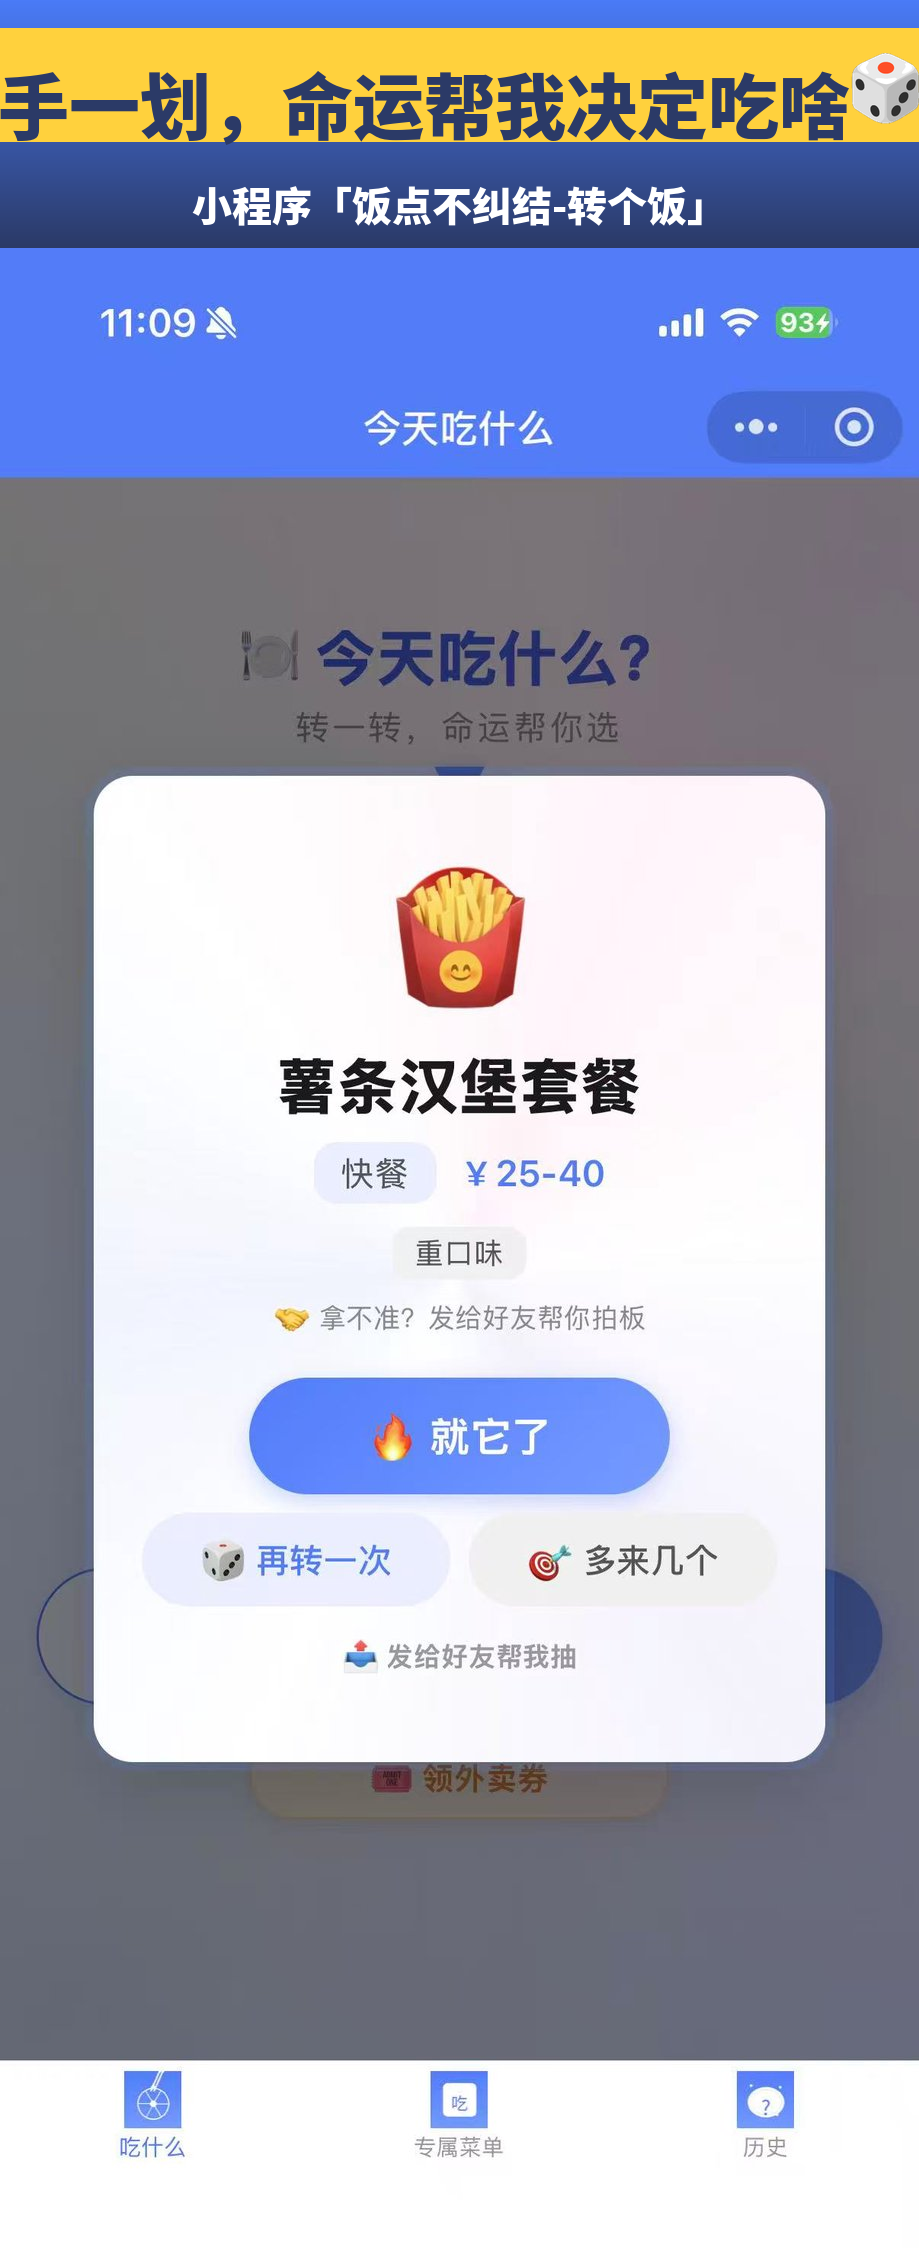
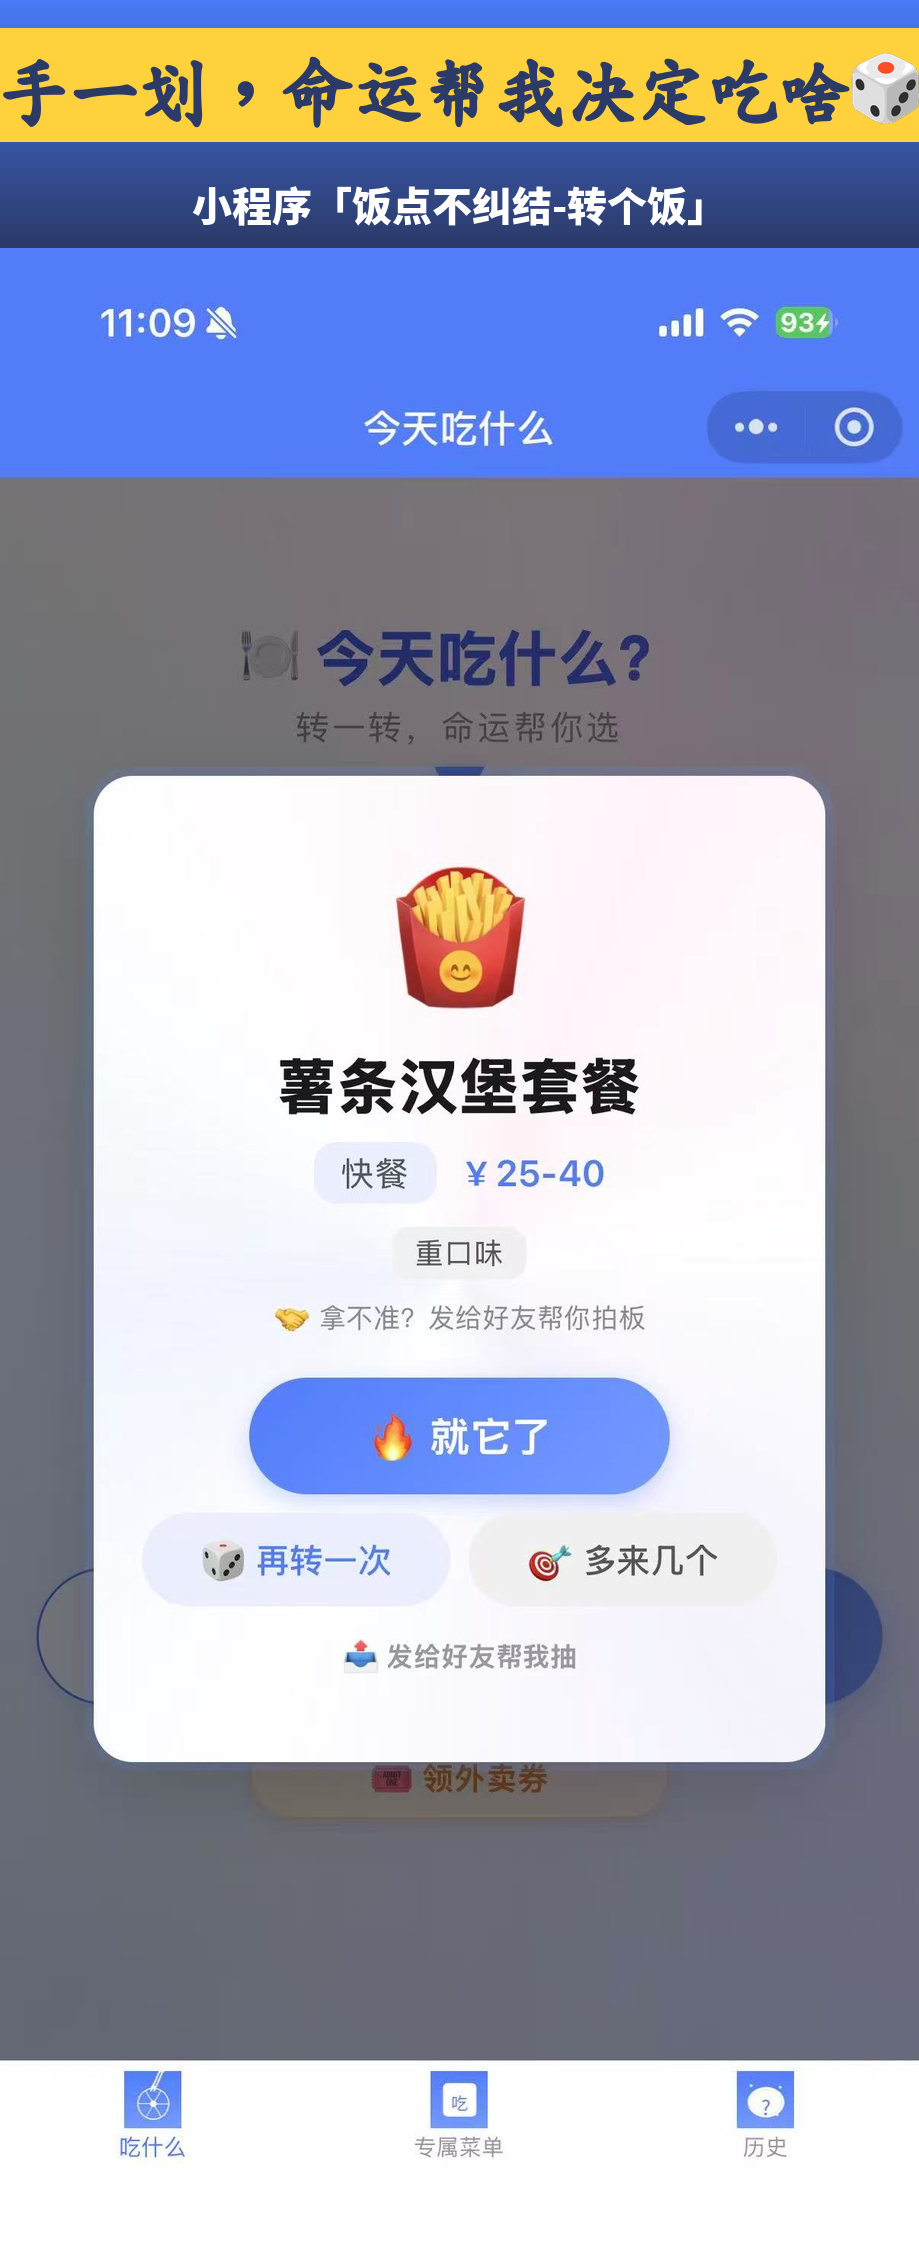
style: 推广配图标题改用楷体(手写可爱感)+描边补粗，小程序名保留黑体保辨识

Changed region(s): [[0.3047, 0.0311, 0.914, 0.0623], [0.0, 0.0311, 0.2742, 0.0623]]

diff --git a/images/gen_promo.py b/images/gen_promo.py
@@ -13,8 +13,10 @@ os.makedirs(OUT, exist_ok=True)
 
 CJK = '/usr/share/fonts/opentype/noto/NotoSansCJK-Black.ttc'
 CJK_R = '/usr/share/fonts/opentype/noto/NotoSansCJK-Medium.ttc'
+UKAI = '/usr/share/fonts/truetype/arphic/ukai.ttc'   # 楷体（手写可爱感）
 EMOJI = '/usr/share/fonts/truetype/noto/NotoColorEmoji.ttf'
 SC_INDEX = 2
+UKAI_INDEX = 0
 
 BLUE = (74, 123, 247)
 BLUE_L = (120, 165, 255)
@@ -43,7 +45,9 @@ ITEMS = [
 ]
 
 
-def font(size, bold=True):
+def font(size, bold=True, cute=False):
+    if cute:
+        return ImageFont.truetype(UKAI, size, index=UKAI_INDEX)
     return ImageFont.truetype(CJK if bold else CJK_R, size, index=SC_INDEX)
 
 
@@ -87,19 +91,19 @@ def tokens(s):
     return res
 
 
-def measure(d, s, size, bold=True):
-    fnt = font(size, bold)
+def measure(d, s, size, bold=True, cute=False):
+    fnt = font(size, bold, cute)
     total = 0
     for typ, val in tokens(s):
         total += d.textlength(val, font=fnt) if typ == 't' else size
     return total
 
 
-def draw_center(img, cx, y, s, size, fill, bold=True, stroke=0, stroke_fill=NAVY):
+def draw_center(img, cx, y, s, size, fill, bold=True, stroke=0, stroke_fill=NAVY, cute=False):
     """图文混排居中：中文用字体，emoji 用彩色图片贴。"""
     d = ImageDraw.Draw(img)
-    fnt = font(size, bold)
-    total = measure(d, s, size, bold)
+    fnt = font(size, bold, cute)
+    total = measure(d, s, size, bold, cute)
     x = cx - total / 2
     for typ, val in tokens(s):
         if typ == 't':
@@ -127,15 +131,16 @@ def vgradient(w, h, top, bot):
     return base
 
 
-def block_center(canvas, cx, y, s, size, text_fill, block_fill, bold=True):
+def block_center(canvas, cx, y, s, size, text_fill, block_fill, bold=True, cute=False, stroke=0):
     """先画圆角高亮块，再在块上居中画图文，最大化可读性。"""
     d = ImageDraw.Draw(canvas)
-    tw = measure(d, s, size, bold)
+    tw = measure(d, s, size, bold, cute)
     padx = size * 0.45
     pady = size * 0.30
     box = [cx - tw / 2 - padx, y - pady, cx + tw / 2 + padx, y + size + pady]
     d.rounded_rectangle(box, radius=int(size * 0.42), fill=block_fill)
-    draw_center(canvas, cx, y, s, size, text_fill, bold)
+    draw_center(canvas, cx, y, s, size, text_fill, bold, stroke=stroke,
+                stroke_fill=text_fill, cute=cute)
     return box
 
 
@@ -157,9 +162,9 @@ def process(item):
         ss = int(W * 0.055)
         ns = int(W * 0.05)
         y0 = band * 0.11
-        block_center(canvas, W / 2, y0, title, ts, NAVY, YELLOW)
+        block_center(canvas, W / 2, y0, title, ts, NAVY, YELLOW, cute=True, stroke=2)
         draw_center(canvas, W / 2, y0 + ts * 1.7, sub, ss, WHITE,
-                    stroke=5, stroke_fill=NAVY)
+                    stroke=5, stroke_fill=NAVY, cute=True)
         # 小程序名徽标（奶油底圆角）
         d = ImageDraw.Draw(canvas)
         name_txt = '👉 微信搜「' + APP_NAME + '」'
@@ -174,7 +179,7 @@ def process(item):
         ts = int(W * 0.078)
         ns = int(W * 0.044)
         y0 = band * 0.20
-        block_center(canvas, W / 2, y0, title, ts, NAVY, YELLOW)
+        block_center(canvas, W / 2, y0, title, ts, NAVY, YELLOW, cute=True, stroke=2)
         draw_center(canvas, W / 2, y0 + ts * 1.75,
                     '小程序「' + APP_NAME + '」', ns, WHITE)
 
